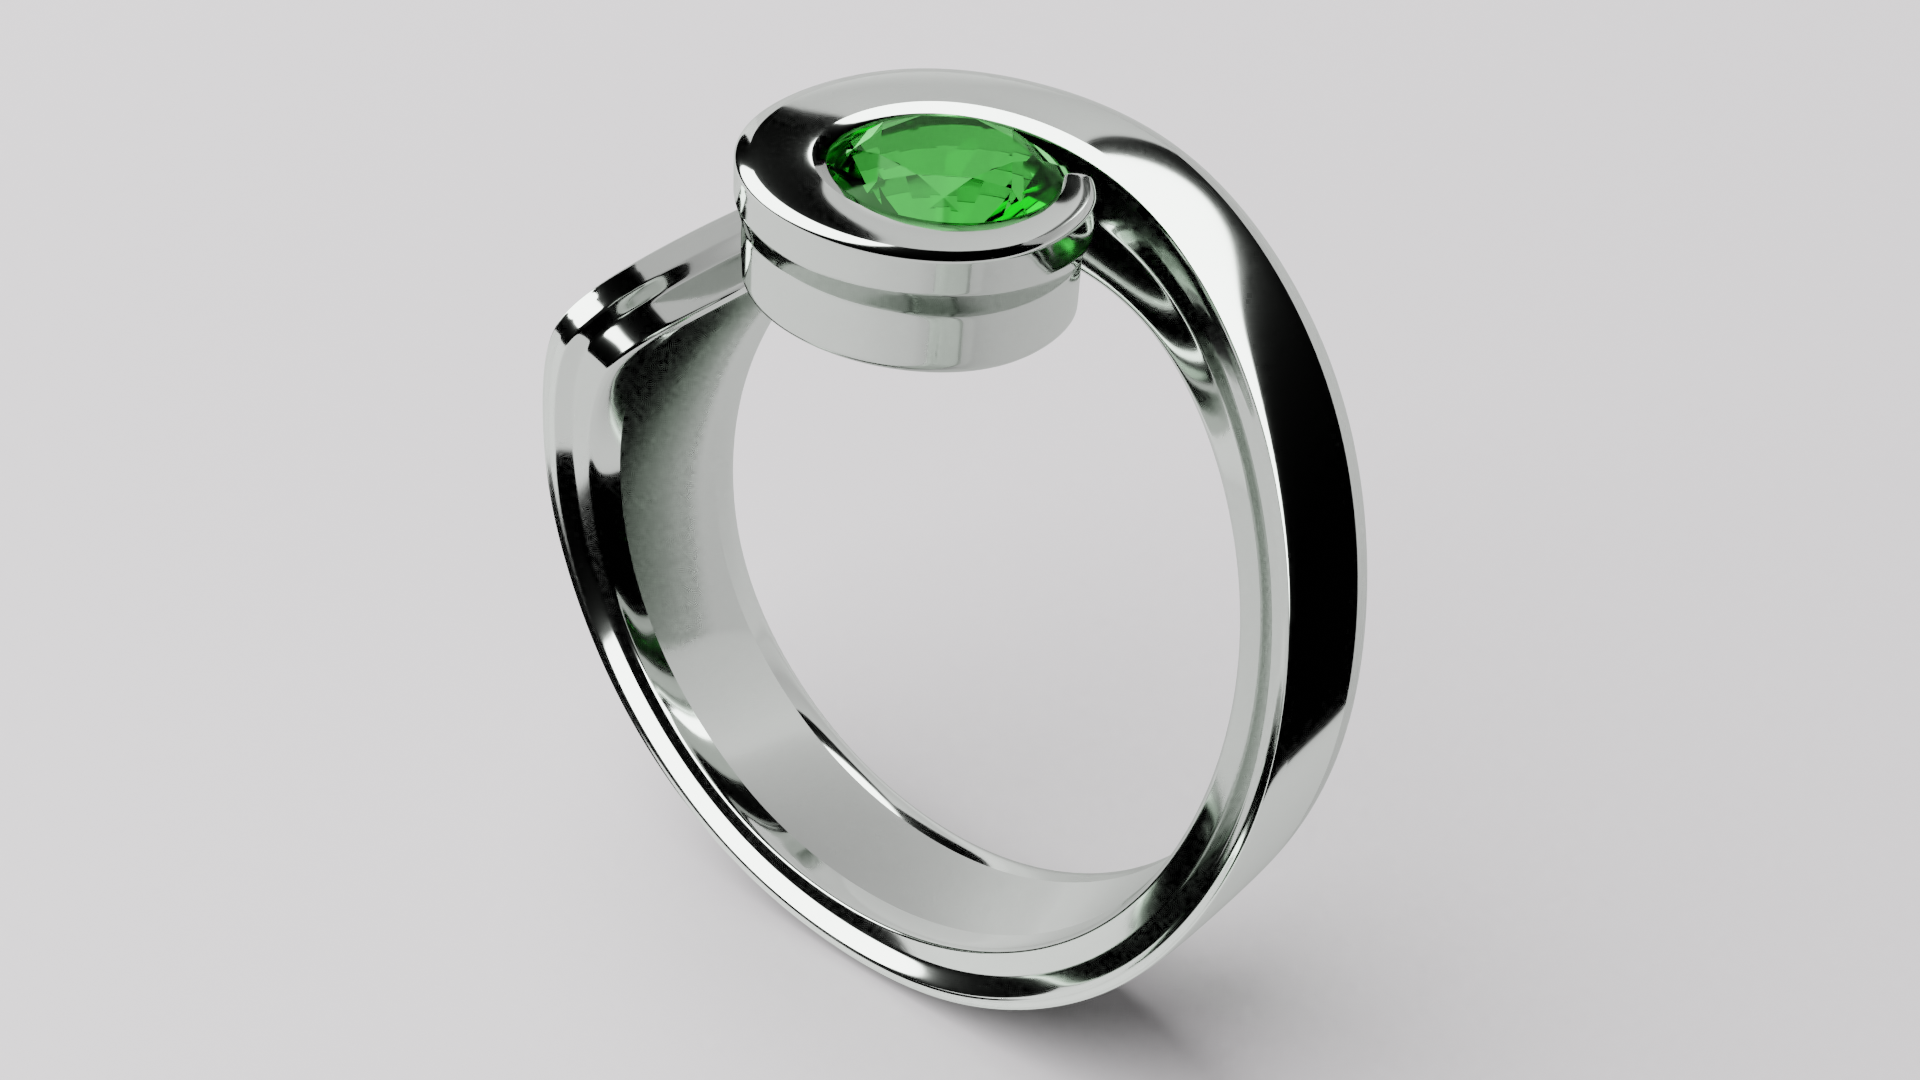
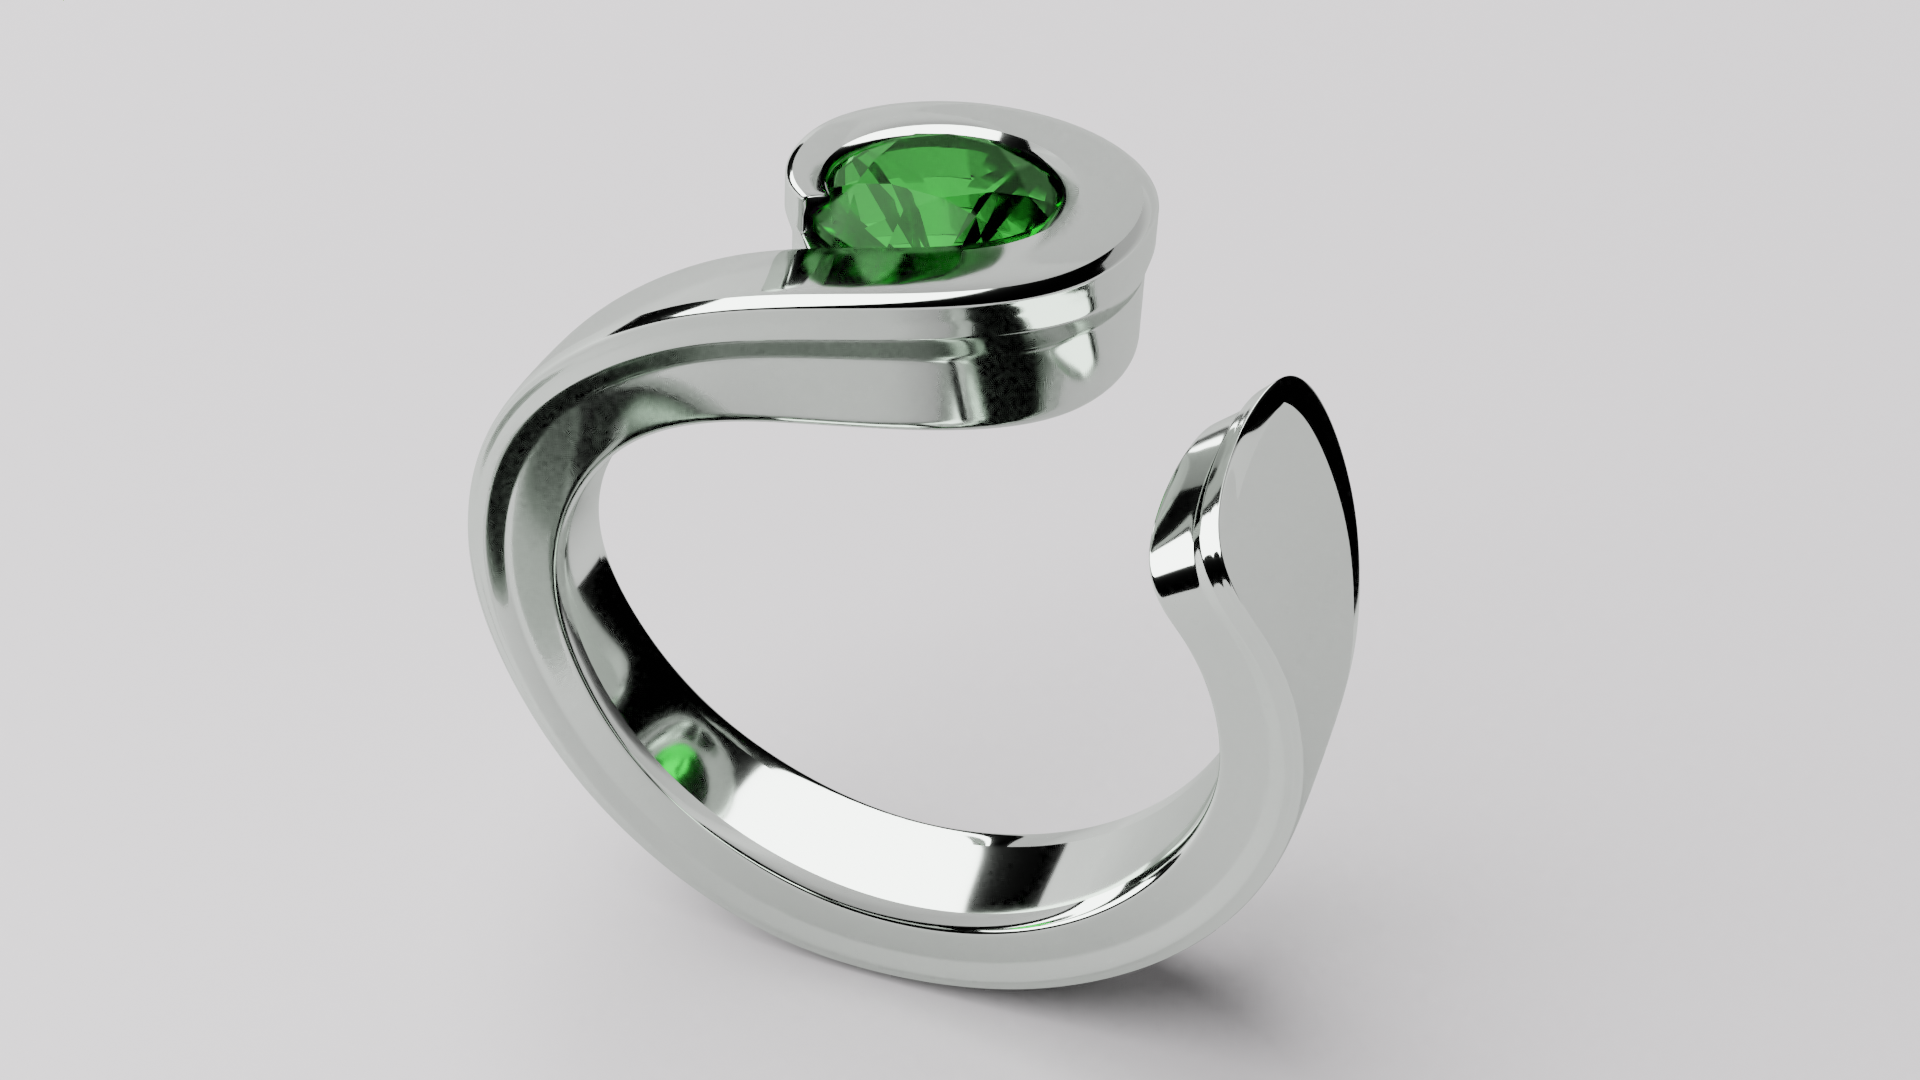
engagement update

Changed region(s): [[0.25, 0.0611, 0.7188, 1.0]]

diff --git a/befa2b19820da7401dbf672069d4af99a040c200/engagement_ring.html b/befa2b19820da7401dbf672069d4af99a040c200/engagement_ring.html
@@ -28,11 +28,11 @@
                     <div class="desc">Concept Sketches</div>
                 </div>
                 <div class="covers">
-                    <img class="cover_img" src="media/projects/engagement_ring/r03_05.png">
-                    <div class="desc">CAD Model</div>
+                    <img class="cover_img" src="media/projects/engagement_ring/R_CAD_01.jpg">
+                    <div class="desc">CAD Prototypes & Final Model</div>
                 </div>
                 <div class="covers">
-                    <img class="cover_img" src="media/projects/engagement_ring/r03_03.png">
+                    <img class="cover_img" src="media/projects/engagement_ring/r03_05.png">
                     <div class="desc">3D Render</div>
                 </div>
                 <div class="covers">

diff --git a/befa2b19820da7401dbf672069d4af99a040c200/index.html b/befa2b19820da7401dbf672069d4af99a040c200/index.html
@@ -80,7 +80,7 @@
                     </div>
                 </a>
                 <a href="engagement_ring.html" class="covers">
-                    <img class="cover_img" src="media/projects/engagement_ring/r03_03.png">
+                    <img class="cover_img" src="media/projects/engagement_ring/r03_04.png">
                     <div class="cover_text">
                         <div class="cover_name">Engagement Ring</div>
                         <div class="cover_title"></div>

diff --git a/index.html b/index.html
@@ -27,12 +27,13 @@ body {
 	justify-content: center;
 	align-items: center;
 	text-align: center;
-	margin: 40px;
+	margin: 20px;
 }
 
 .login {
 	font-size: 26px;
 	padding: 5px;
+	margin: 10px;
 }
 
 #login_button {
